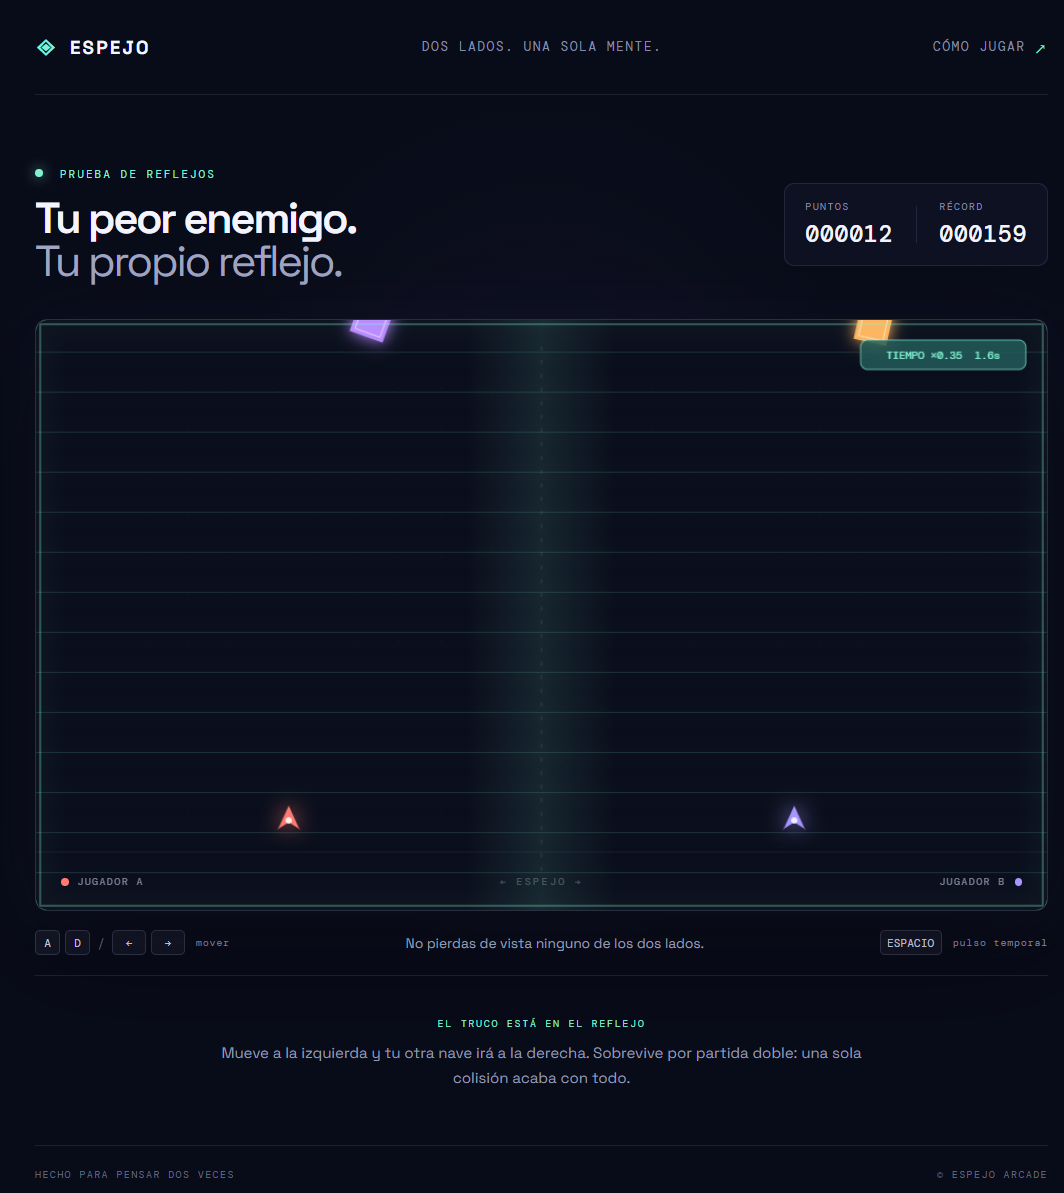
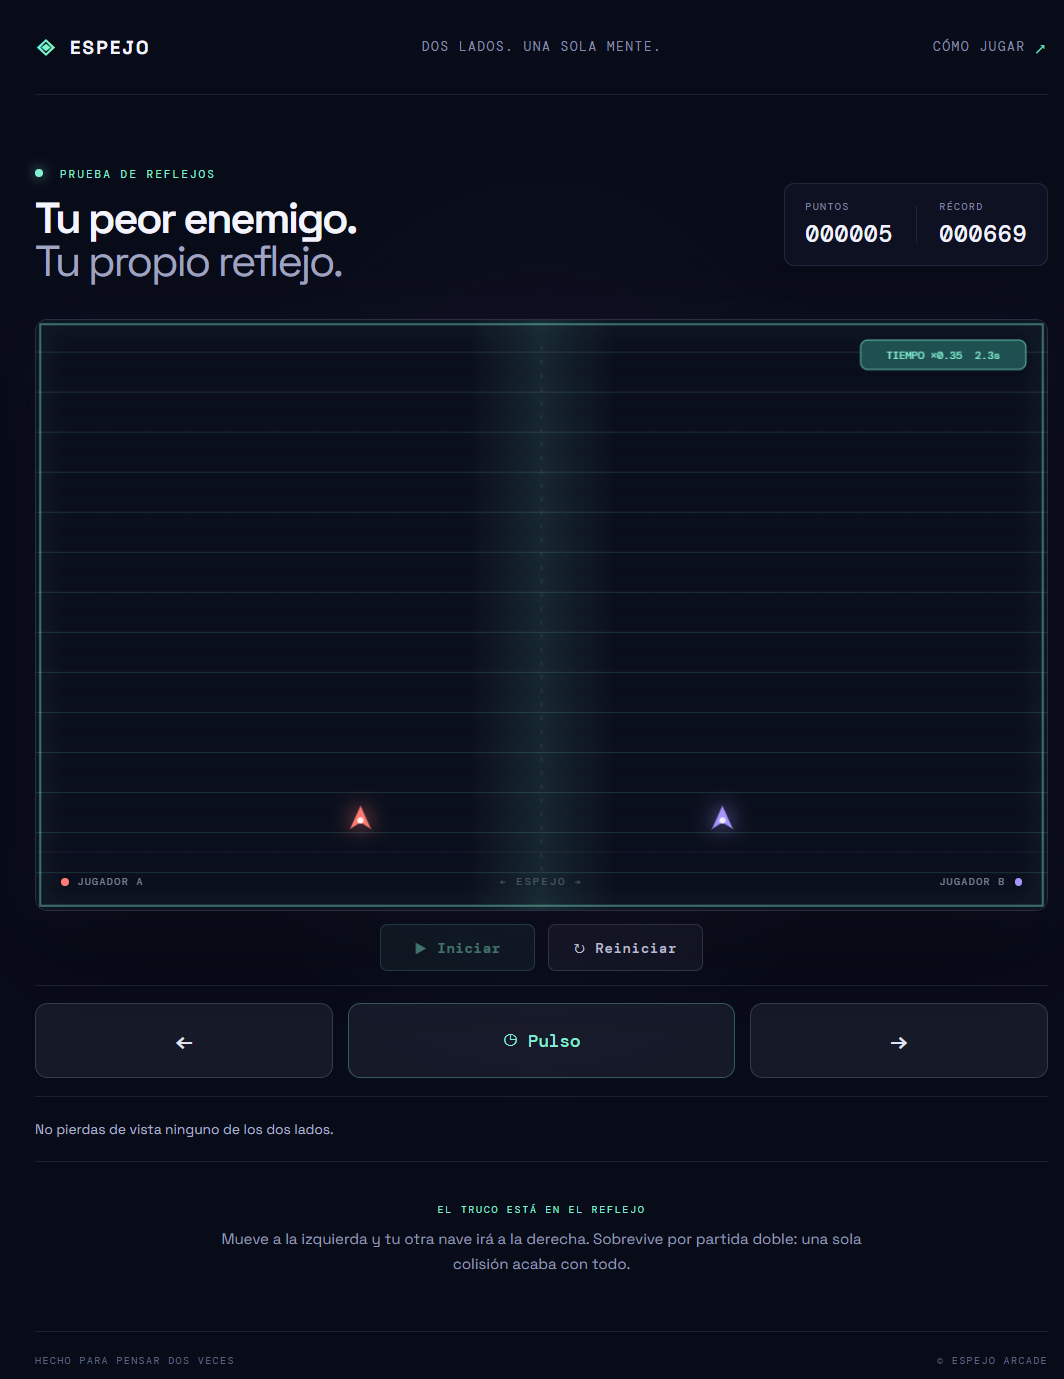
feat: add touch controls for mobile devices

diff --git a/script.js b/script.js
@@ -198,8 +198,8 @@ function update(deltaSeconds) {
   game.score = Math.floor(game.elapsed * 10);
   updateScoreboard();
 
-  const movingRight = game.keys.has("ArrowRight") || game.keys.has("KeyD");
-  const movingLeft = game.keys.has("ArrowLeft") || game.keys.has("KeyA");
+  const movingRight = game.keys.has("ArrowRight") || game.keys.has("KeyD") || game.keys.has("TouchRight");
+  const movingLeft = game.keys.has("ArrowLeft") || game.keys.has("KeyA") || game.keys.has("TouchLeft");
   const direction = Number(movingRight) - Number(movingLeft);
   game.offset = clamp(game.offset + direction * movementSpeed * deltaSeconds, 0, 1);
 
@@ -239,6 +239,7 @@ function update(deltaSeconds) {
 function endGame() {
   game.phase = "over";
   game.keys.clear();
+  updateGameControls();
   document.querySelector("#game-message").textContent = `Puntuación: ${game.score}. Una nave chocó.`;
   document.querySelector("#game-status").textContent = `Partida terminada. Tu puntuación fue ${game.score}. Pulsa Enter para intentarlo otra vez.`;
   if (game.score > game.bestScore) {
@@ -247,6 +248,14 @@ function endGame() {
     document.querySelector("#game-message").textContent = `¡Nuevo récord: ${game.score}!`;
   }
   updateScoreboard();
+}
+
+function updateGameControls() {
+  const startButton = document.querySelector("#start-button");
+  startButton.disabled = game.phase === "playing";
+  startButton.innerHTML = game.phase === "over"
+    ? '<span aria-hidden="true">▶</span> Jugar otra vez'
+    : '<span aria-hidden="true">▶</span> Iniciar';
 }
 
 function render() {
@@ -283,8 +292,7 @@ function frame(timestamp) {
   requestAnimationFrame(frame);
 }
 
-function startGame() {
-  if (game.phase === "playing") return;
+function startRound() {
   game.offset = 0.5;
   game.obstacles = [];
   game.spawnTimer = 0.6;
@@ -294,9 +302,18 @@ function startGame() {
   game.pulseCooldown = 0;
   game.keys.clear();
   game.phase = "playing";
+  updateGameControls();
   updateScoreboard();
   document.querySelector("#game-message").textContent = "No pierdas de vista ninguno de los dos lados.";
   document.querySelector("#game-status").textContent = "Partida en curso. Usa A y D o las flechas para mover ambas naves.";
+}
+
+function startGame() {
+  if (game.phase !== "playing") startRound();
+}
+
+function restartGame() {
+  startRound();
 }
 
 function activatePulse() {
@@ -305,11 +322,32 @@ function activatePulse() {
   game.pulseCooldown = 9;
 }
 
+function bindTouchMovement(buttonId, direction) {
+  const button = document.querySelector(buttonId);
+  const pointerKey = direction === "left" ? "TouchLeft" : "TouchRight";
+
+  button.addEventListener("pointerdown", (event) => {
+    event.preventDefault();
+    if (game.phase !== "playing") startRound();
+    game.keys.add(pointerKey);
+    button.setPointerCapture(event.pointerId);
+  });
+
+  const releasePointer = () => {
+    game.keys.delete(pointerKey);
+  };
+
+  button.addEventListener("pointerup", releasePointer);
+  button.addEventListener("pointercancel", releasePointer);
+  button.addEventListener("lostpointercapture", releasePointer);
+}
+
 function isGameKey(key) {
   return ["ArrowLeft", "ArrowRight", "KeyA", "KeyD", "Space", "Enter"].includes(key);
 }
 
 window.addEventListener("keydown", (event) => {
+  if (event.target instanceof Element && event.target.closest("button, a, input, textarea, select")) return;
   if (isGameKey(event.code)) event.preventDefault();
   if (event.code === "Enter") startGame();
   if (event.code === "Space" && !event.repeat) activatePulse();
@@ -324,10 +362,21 @@ window.addEventListener("blur", () => {
   game.keys.clear();
 });
 
+document.addEventListener("visibilitychange", () => {
+  if (document.hidden) game.keys.clear();
+});
+
 canvas.addEventListener("click", () => {
   canvas.focus();
   startGame();
 });
 
+document.querySelector("#start-button").addEventListener("click", startGame);
+document.querySelector("#restart-button").addEventListener("click", restartGame);
+document.querySelector("#touch-pulse").addEventListener("click", activatePulse);
+bindTouchMovement("#move-left", "left");
+bindTouchMovement("#move-right", "right");
+
+updateGameControls();
 updateScoreboard();
 requestAnimationFrame(frame);

diff --git a/styles.css b/styles.css
@@ -245,6 +245,101 @@ h1 span {
   background: var(--violet);
 }
 
+.game-actions {
+  display: flex;
+  min-height: 60px;
+  align-items: center;
+  justify-content: center;
+  gap: 10px;
+  border-bottom: 1px solid var(--line);
+}
+
+.game-button {
+  display: inline-flex;
+  min-width: 124px;
+  min-height: 38px;
+  align-items: center;
+  justify-content: center;
+  gap: 8px;
+  padding: 0 17px;
+  border: 1px solid rgba(184, 192, 231, 0.2);
+  border-radius: 6px;
+  background: rgba(185, 193, 231, 0.06);
+  color: #d5d9ed;
+  cursor: pointer;
+  font: 500 11px "DM Mono", monospace;
+  letter-spacing: 0.06em;
+  transition: border-color 150ms ease, background-color 150ms ease, opacity 150ms ease;
+}
+
+.game-button:hover:not(:disabled) {
+  border-color: rgba(130, 241, 210, 0.55);
+  background: rgba(130, 241, 210, 0.09);
+}
+
+.game-button:focus-visible {
+  outline: 2px solid var(--mint);
+  outline-offset: 3px;
+}
+
+.game-button:disabled {
+  cursor: not-allowed;
+  opacity: 0.45;
+}
+
+.game-button-primary {
+  border-color: rgba(130, 241, 210, 0.36);
+  background: rgba(130, 241, 210, 0.11);
+  color: var(--mint);
+}
+
+.game-button-primary:hover:not(:disabled) {
+  background: rgba(130, 241, 210, 0.17);
+}
+
+.touch-controls {
+  display: none;
+  grid-template-columns: minmax(64px, 1fr) minmax(105px, 1.3fr) minmax(64px, 1fr);
+  gap: 12px;
+  padding: 14px 0;
+  border-bottom: 1px solid var(--line);
+}
+
+.touch-button {
+  display: inline-flex;
+  min-height: 60px;
+  align-items: center;
+  justify-content: center;
+  gap: 8px;
+  border: 1px solid rgba(184, 192, 231, 0.2);
+  border-radius: 10px;
+  background: rgba(185, 193, 231, 0.08);
+  color: #e2e5f4;
+  cursor: pointer;
+  font: 500 24px "DM Mono", monospace;
+  touch-action: none;
+  user-select: none;
+  -webkit-user-select: none;
+  -webkit-tap-highlight-color: transparent;
+}
+
+.touch-button:active {
+  border-color: rgba(130, 241, 210, 0.72);
+  background: rgba(130, 241, 210, 0.2);
+  color: var(--mint);
+}
+
+.touch-button:focus-visible {
+  outline: 2px solid var(--mint);
+  outline-offset: 3px;
+}
+
+.touch-button-pulse {
+  border-color: rgba(130, 241, 210, 0.3);
+  color: var(--mint);
+  font-size: 14px;
+}
+
 .game-footer {
   min-height: 52px;
   justify-content: space-between;
@@ -379,6 +474,10 @@ h1 span {
     padding-block: 11px;
   }
 
+  .game-actions {
+    min-height: 56px;
+  }
+
   #game-message {
     order: -1;
     width: 100%;
@@ -394,6 +493,16 @@ h1 span {
 
   .page-footer {
     margin-top: 31px;
+  }
+}
+
+@media (pointer: coarse), (any-pointer: coarse) {
+  .touch-controls {
+    display: grid;
+  }
+
+  .control-hint {
+    display: none;
   }
 }
 

diff --git a/index.html b/index.html
@@ -67,6 +67,27 @@
           </div>
         </div>
 
+        <div class="game-actions" role="group" aria-label="Controles de partida">
+          <button id="start-button" class="game-button game-button-primary" type="button" aria-controls="game">
+            <span aria-hidden="true">▶</span> Iniciar
+          </button>
+          <button id="restart-button" class="game-button" type="button" aria-controls="game">
+            <span aria-hidden="true">↻</span> Reiniciar
+          </button>
+        </div>
+
+        <div class="touch-controls" role="group" aria-label="Controles táctiles">
+          <button id="move-left" class="touch-button" type="button" aria-label="Mover a la izquierda" aria-controls="game">
+            <span aria-hidden="true">←</span>
+          </button>
+          <button id="touch-pulse" class="touch-button touch-button-pulse" type="button" aria-label="Activar pulso temporal" aria-controls="game">
+            <span aria-hidden="true">◷</span> Pulso
+          </button>
+          <button id="move-right" class="touch-button" type="button" aria-label="Mover a la derecha" aria-controls="game">
+            <span aria-hidden="true">→</span>
+          </button>
+        </div>
+
         <footer class="game-footer">
           <div class="control-hint">
             <span class="keycap">A</span><span class="keycap">D</span>

diff --git a/README.md b/README.md
@@ -16,11 +16,18 @@ Después visita <http://localhost:8000>.
 
 | Acción | Teclas |
 | --- | --- |
-| Empezar o volver a empezar | `Enter` o clic en el tablero |
+| Iniciar | Botón **Iniciar**, `Enter` o clic en el tablero |
+| Reiniciar la partida | Botón **Reiniciar** |
 | Mover las dos naves | `A` / `D` o `←` / `→` |
 | Activar el pulso temporal | `Espacio` |
 
 **Objetivo:** sobrevive todo lo posible y evita todos los obstáculos. Tu puntuación aumenta con el tiempo de supervivencia; el récord se guarda en el navegador. La partida termina cuando cualquiera de las dos naves choca.
+
+### Jugar desde el celular
+
+En un celular aparecen controles táctiles debajo del tablero: mantén presionadas las flechas para mover las naves y toca **Pulso** para activar la dilatación temporal. También puedes iniciar y reiniciar con sus botones.
+
+Para probarlo en otro dispositivo de la misma red Wi-Fi, inicia el servidor local con `python -m http.server 8000 --bind 0.0.0.0` y abre `http://IP-DE-TU-COMPUTADORA:8000` en el celular. Ambos dispositivos deben estar conectados a la misma red y el firewall debe permitir la conexión. Para que se pueda jugar desde cualquier lugar, publica la carpeta en un servicio de alojamiento estático, como GitHub Pages.
 
 ## Las 10 líneas clave del movimiento espejado
 
@@ -73,7 +80,7 @@ No se necesitan paquetes, compilación ni dependencias externas. La tipografía 
 
 ## Proceso de desarrollo y screenshots
 
-El proyecto se desarrolló en seis commits incrementales, desde la estructura inicial hasta la documentación:
+El proyecto se desarrolló en seis commits incrementales, desde la estructura inicial hasta la documentación. Después se añadieron controles táctiles para facilitar el juego en celulares:
 
 1. `feat: initial commit with project structure and canvas layout`
 2. `feat: implement player movement and mirrored movement logic`
@@ -81,6 +88,7 @@ El proyecto se desarrolló en seis commits incrementales, desde la estructura in
 4. `feat: implement score counter and game over reset loop`
 5. `feat(extra): add temporal inversion pulse and arcade effects`
 6. `docs: add complete README.md with process documentation and assets`
+7. `feat: add touch controls for mobile devices`
 
 ### Proceso de código
 
